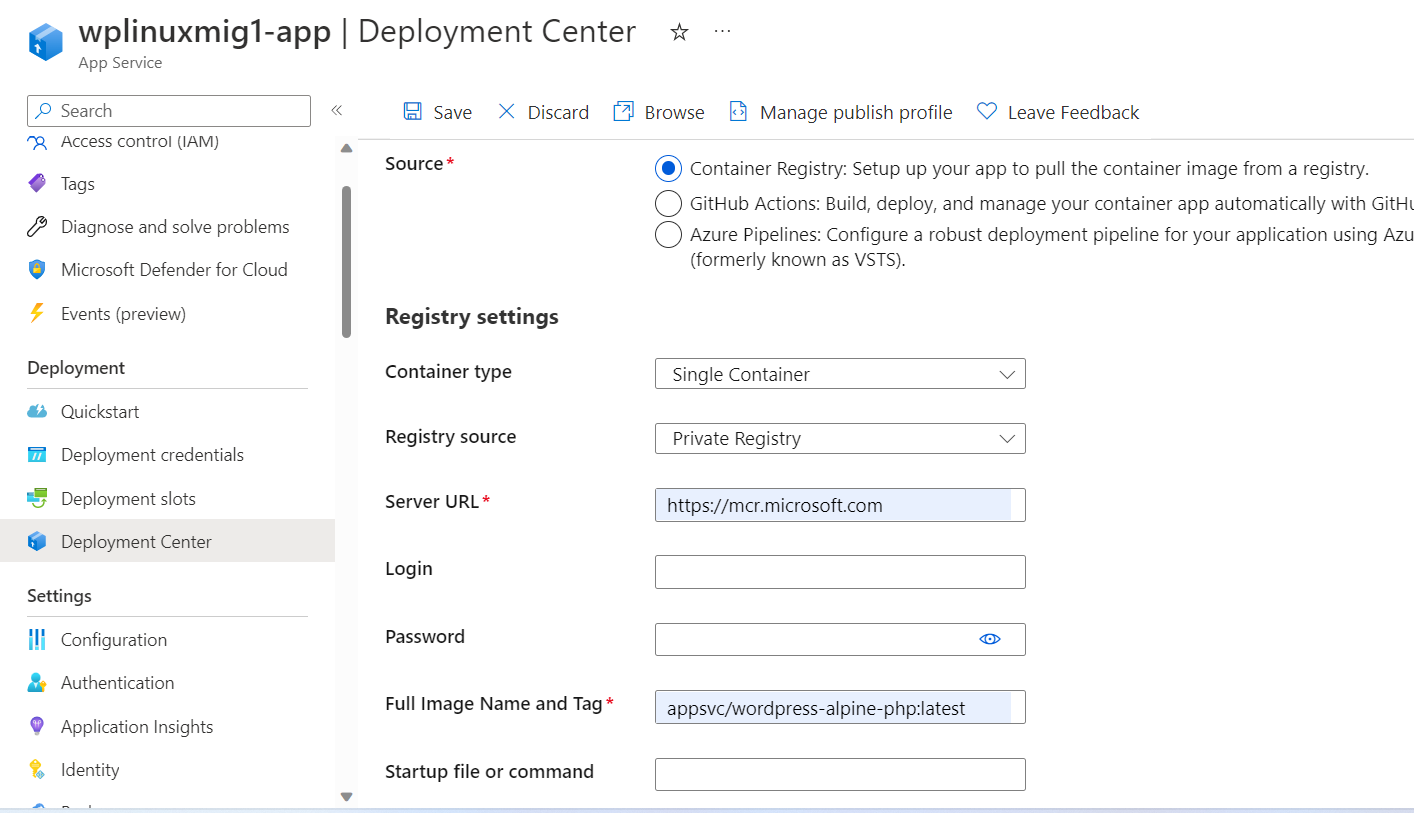
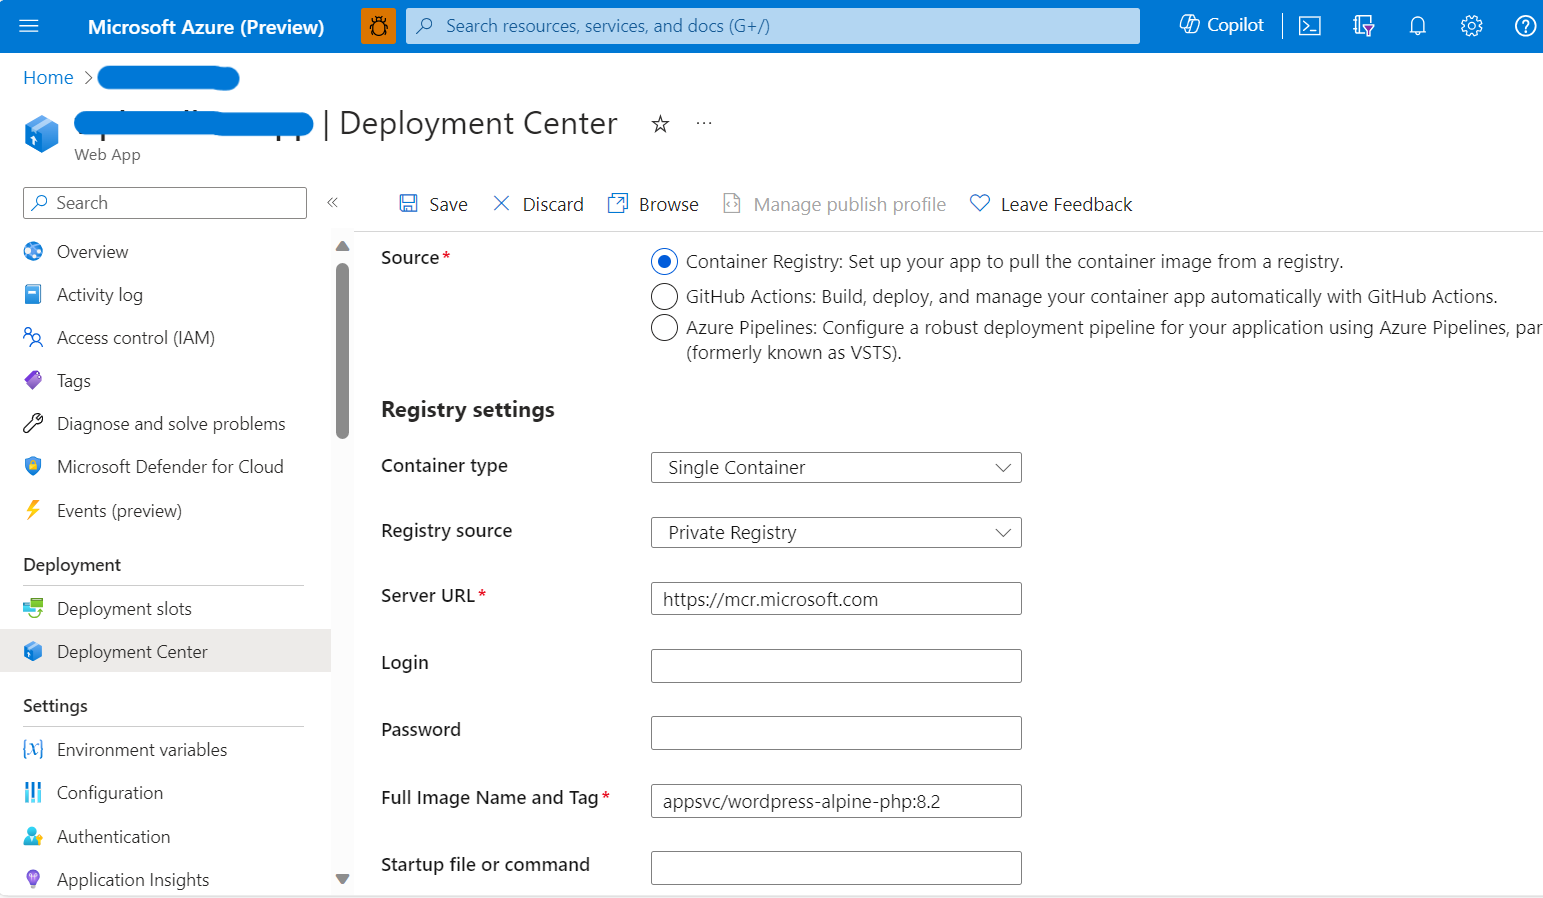
updating notes for upgrading from other images

diff --git a/WordPress/wordpress_upgrade_from_other_images.md b/WordPress/wordpress_upgrade_from_other_images.md
@@ -1,6 +1,6 @@
 # Migrate the WordPress images running on a different container to Microsoft supported containers
 
-This document describes the approach to migrate WordPress instances running on Linux App Service (using different container) to the latest new WordPress image **(mcr.microsoft.com/appsvc/wordpress-alpine-php)**.
+This document describes the approach to migrate WordPress instances running on Linux App Service **(using different images, or older wordpress-alpine:0.72 image)** to the new WordPress offering **(mcr.microsoft.com/appsvc/wordpress-alpine-php having >=7.4 tag)**.
 
 **Note-1:** The steps described below under section **Steps for migrating the docker container** will upgrade the underlying stack such as Nginx, PHP, Redis etc., and it will not upgrade/refresh the WordPress version or source code.  As a result, sometimes there can be compatibility issue between the upgraded PHP version and underlying WordPress code. So upgrading the WordPress to latest compatible version with the PHP version as per the [PHP Compatibility and WordPress Versions](https://make.wordpress.org/core/handbook/references/php-compatibility-and-wordpress-versions/) is the responsibility of the user.
 
